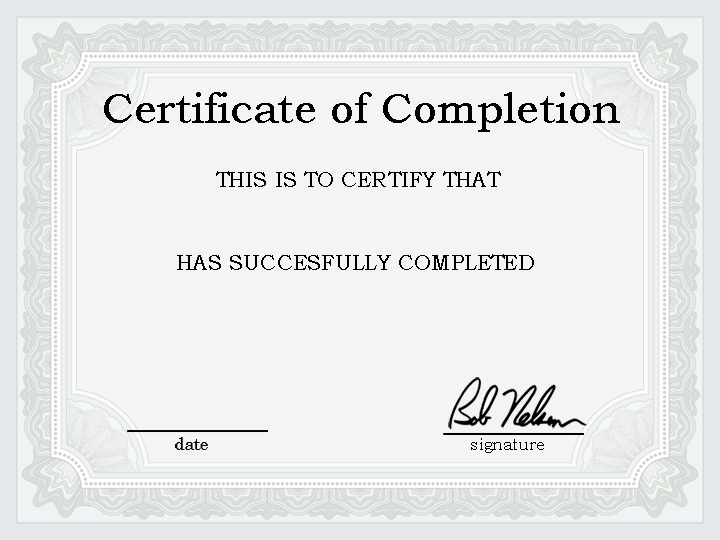
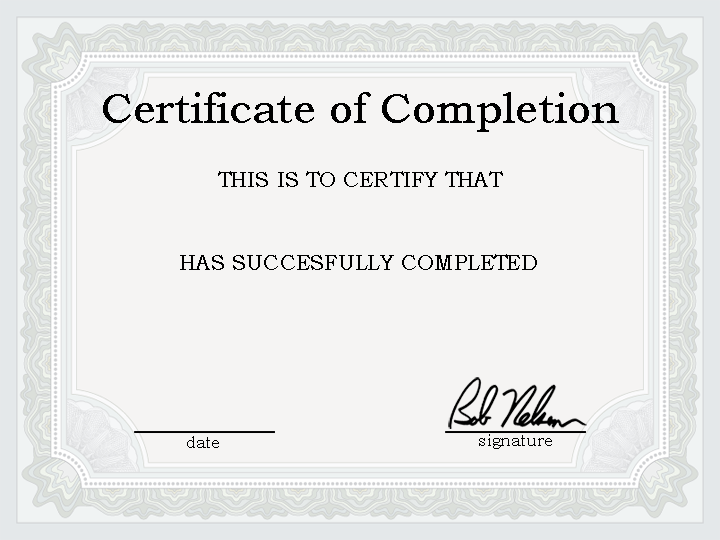
Certificate updates

diff --git a/app/pdfs/certificate_pdf.rb b/app/pdfs/certificate_pdf.rb
@@ -9,8 +9,28 @@ class CertificatePdf < Prawn::Document
   end
   
   def certificate_info
-    text_box "#{@user.name}", at: [0,400], width: 720, height: 36, size: 24, align: :center, overflow: :shrink_to_fit
-    text_box  "#{@course.name}",  at: [0,300], width: 720, height: 36, size: 24, align: :center, overflow: :shrink_to_fit
+    font "Helvetica", style: :bold_italic, color: "rgb=003399"
+    text_box "#{@user.name}",
+              at: [0,400],
+              width: 720, 
+              height: 36, 
+              size: 24, 
+              align: :center, 
+              overflow: :shrink_to_fit
+    text_box  "#{@course.name}",  
+              at: [0,300],
+              width: 720, 
+              height: 36, 
+              size: 24, 
+              align: :center, 
+              overflow: :shrink_to_fit
+    text_box  "#{@certificate.purchase_date.strftime('%B %e, %Y')}",  
+              at: [110,198],
+              width: 200, 
+              height: 36, 
+              size: 18, 
+              align: :center, 
+              overflow: :shrink_to_fit
     #text "On #{@certificate.purchase_date}"
   end
 end
